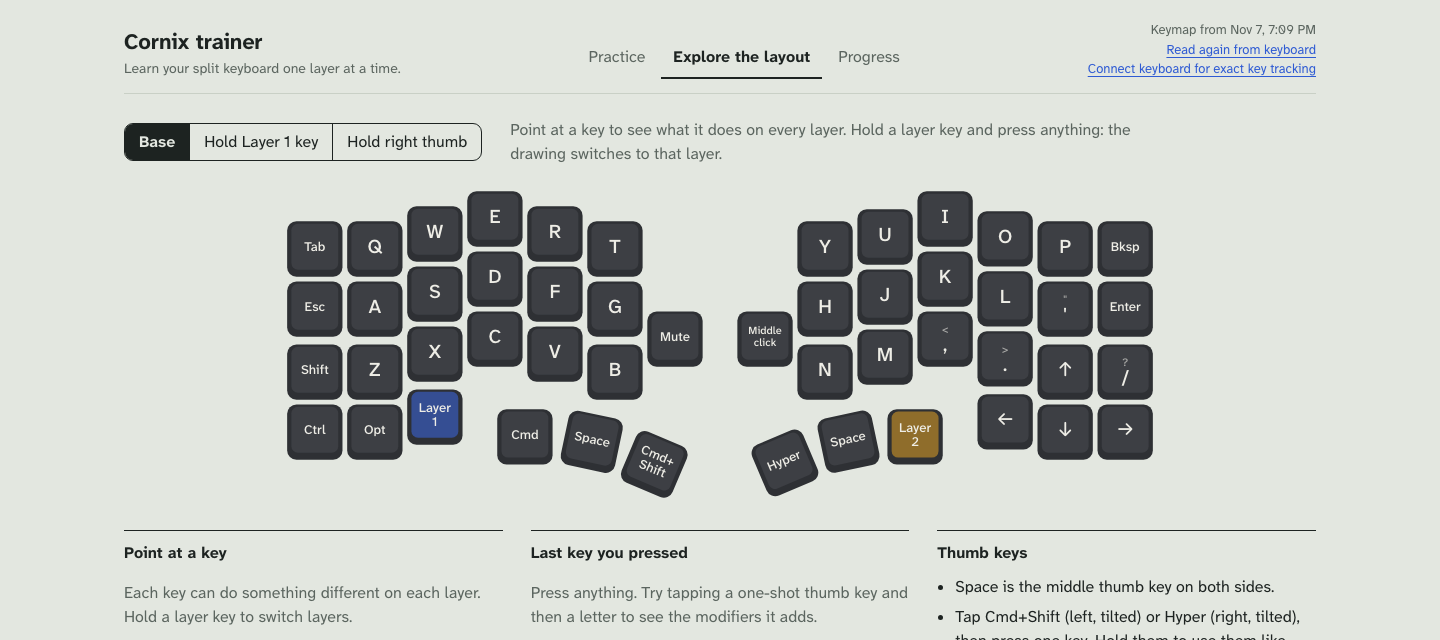
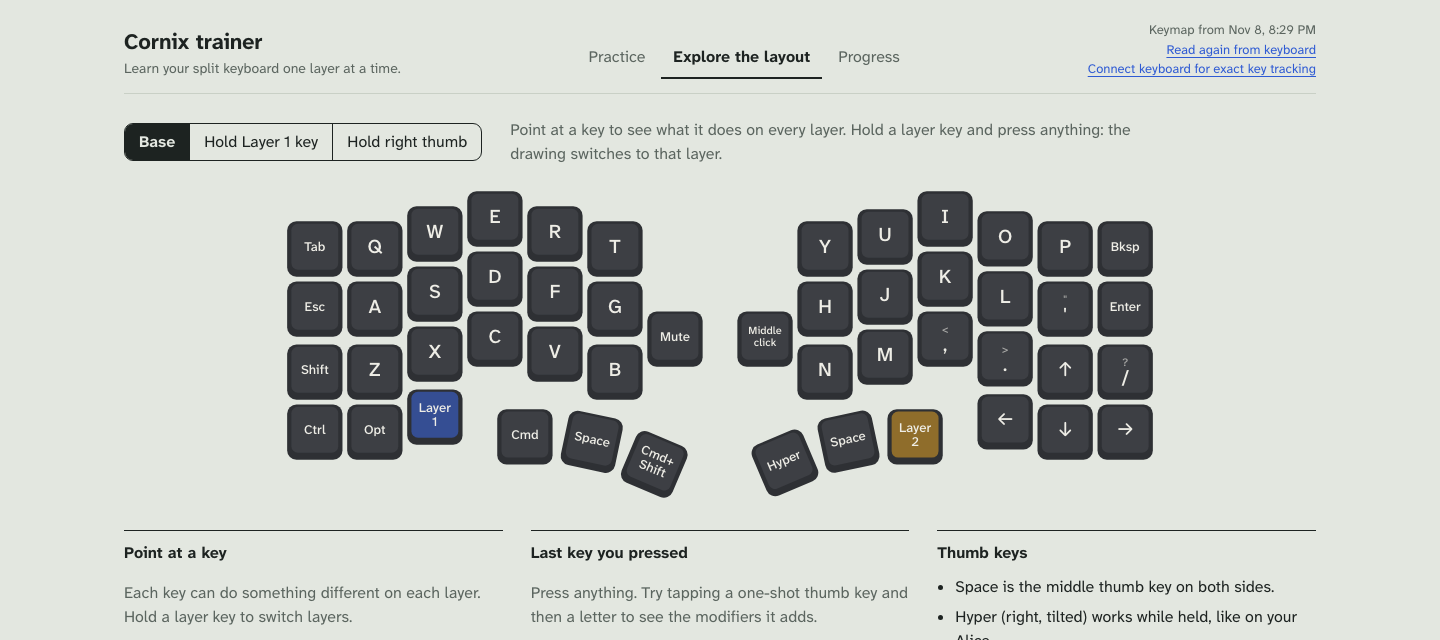
Hold-only Hyper like the Alice; USB/BT output switch on Layer 2
- Hyper (right tilted thumb) is now HYPR(KC_NO): active only while held,
  instead of one-shot.
- Layer 2 Tab spot gets the Cornix output switch, so a cable in the left
  half only charges (Bluetooth priority) and typing keeps working.
- App: describe both keys, treat held Hyper like a modifier group when
  telling which key was pressed; refresh layout screenshots.

Changed region(s): [[0.6562, 0.9375, 0.9062, 1.0], [0.7812, 0.0312, 0.9062, 0.0625]]

diff --git a/app/src/lib/keycodes.ts b/app/src/lib/keycodes.ts
@@ -74,6 +74,8 @@ export type KeyInfo = {
   kind: 'char' | 'mod' | 'layer' | 'oneshot' | 'action' | 'none' | 'trans' | 'media' | 'custom'
   /** layer this key activates while held (MO) */
   layer?: number
+  /** modifier bits (C=1 S=2 A=4 G=8) for keys that send a group of modifiers (Hyper, one-shot keys) */
+  mods?: number
   /** plain-language explanation */
   help: string
 }
@@ -96,8 +98,12 @@ export function describe(kc: number): KeyInfo {
     return { label: l ?? `0x${kc.toString(16)}`, kind: 'action', help: `${l ?? 'Key'}.` }
   }
   if (kc < 0x2000) {
-    const inner = describe(kc & 0xff)
     const m = modsName(kc >> 8)
+    if ((kc & 0xff) === 0) {
+      // modifiers only (e.g. Hyper): works while held, like a normal modifier key
+      return { label: m, kind: 'mod', mods: (kc >> 8) & 0x0f, help: `${m} while held. Let go and it's off.` }
+    }
+    const inner = describe(kc & 0xff)
     return { label: `${m}+${inner.label}`, kind: 'action', help: `Sends ${m}+${inner.label}.` }
   }
   if (kc >= 0x5220 && kc < 0x5240) {
@@ -107,13 +113,18 @@ export function describe(kc: number): KeyInfo {
   if (kc >= 0x52a0 && kc < 0x52c0) {
     const m = modsName(kc - 0x52a0)
     return {
-      label: m, kind: 'oneshot',
+      label: m, kind: 'oneshot', mods: (kc - 0x52a0) & 0x0f,
       help: `One-shot ${m}: tap it, then press one key and it gets ${m}. Hold it to use it like a normal modifier.`,
     }
   }
   if (kc >= 0x7e00 && kc < 0x7e40) {
     const label = CUSTOM[kc - 0x7e00] ?? `KB${kc - 0x7e00}`
-    return { label, kind: 'custom', help: label.startsWith('BT') ? `Switch to Bluetooth device ${label.slice(3)}.` : label }
+    const help = label.startsWith('BT')
+      ? `Switch to Bluetooth device ${label.slice(3)}.`
+      : label === 'USB / BT'
+        ? 'Switch between USB priority and Bluetooth priority. In Bluetooth priority, a cable only charges the keyboard.'
+        : label
+    return { label, kind: 'custom', help }
   }
   return { label: `0x${kc.toString(16)}`, kind: 'action', help: 'Special key.' }
 }

diff --git a/app/src/components/Explore.tsx b/app/src/components/Explore.tsx
@@ -26,8 +26,9 @@ export function Explore({ km }: { km: Keymap }) {
     const oneShotIds: string[] = []
     for (const k of km.keys) {
       const info = describe(km.raw(0, k.row, k.col))
-      if (info.kind === 'mod') modKeyIds.push(k.id)
-      if (info.kind === 'oneshot') oneShotIds.push(k.id)
+      const group = [1, 2, 4, 8].filter((b) => (info.mods ?? 0) & b).length >= 2
+      if (group) oneShotIds.push(k.id)
+      else if (info.kind === 'mod') modKeyIds.push(k.id)
     }
     return { modKeyIds, oneShotIds }
   }, [km])
@@ -152,7 +153,8 @@ export function Explore({ km }: { km: Keymap }) {
           <h3>Thumb keys</h3>
           <ul className="facts">
             <li>Space is the middle thumb key on both sides.</li>
-            <li>Tap Cmd+Shift (left, tilted) or Hyper (right, tilted), then press one key. Hold them to use them like normal modifiers.</li>
+            <li>Hyper (right, tilted) works while held, like on your Alice.</li>
+            <li>Cmd+Shift (left, tilted) is one-shot: tap it, then press one key. You can also hold it.</li>
             <li>Cmd is the outer left thumb key.</li>
             <li>Hold the {thumbOf(km, 1)} for numbers and symbols. Hold the {thumbOf(km, 2)} for F-keys, media and Bluetooth.</li>
             <li>One knob turns the volume, the other scrolls.</li>

diff --git a/app/src/lib/pressed.ts b/app/src/lib/pressed.ts
@@ -17,10 +17,10 @@ const osmCache = new WeakMap<Keymap, Osm[]>()
 function oneShots(km: Keymap): Osm[] {
   let list = osmCache.get(km)
   if (!list) {
+    // keys that send a group of modifiers at once: one-shot keys and held combos like Hyper
     list = km.keys
-      .map((k) => ({ id: k.id, kc: km.raw(0, k.row, k.col) }))
-      .filter((x) => describe(x.kc).kind === 'oneshot')
-      .map((x) => ({ id: x.id, mods: (x.kc - 0x52a0) & 0x0f }))
+      .map((k) => ({ id: k.id, mods: describe(km.raw(0, k.row, k.col)).mods ?? 0 }))
+      .filter((x) => [1, 2, 4, 8].filter((b) => x.mods & b).length >= 2)
     osmCache.set(km, list)
   }
   return list

diff --git a/tools/apply.py b/tools/apply.py
@@ -29,6 +29,7 @@ else:
     # Thumbs: Space on the resting (middle) keys, one-shot mods on the inner tilted keys
     L0[3][4], L0[3][5] = L0[3][5], L0[3][4]   # left:  Space <-> OSM(Cmd+Shift)
     L0[7][4], L0[7][5] = L0[7][5], L0[7][4]   # right: Space <-> OSM(Hyper)
+    L0[7][5] = 0x0F00  # Hyper only while held (like the Alice), not one-shot
     # Cmd on the outer left thumb (Mac muscle memory); Layer 1 moves to Cmd's old bottom-row spot
     L0[3][2], L0[3][3] = L0[3][3], L0[3][2]
     # Layer 1: no Caps Lock anywhere (too easy to hit by accident); brackets on K / L
@@ -46,6 +47,9 @@ else:
     L2[5][2] = NEXT    # L
     L2[6][4] = BRID    # M
     L2[6][3] = BRIU    # ,
+    # Output mode switch (USB priority <-> Bluetooth priority), above BT1-BT3 on the left edge.
+    # In USB priority (the default) a cable in the left half sends keys to USB, even from a wall charger.
+    L2[0][0] = 0x7E06  # SWITCH
     # Unused keys on layers 1-2 -> transparent so mods/thumbs keep working
     for L in (L1, L2):
         for r in range(R):

diff --git a/README.md b/README.md
@@ -8,7 +8,7 @@ The repo also keeps the scripts and backups I used to set up the keymap.
 
 ## My layout
 
-**Base layer.** Esc is where Caps Lock was. Cmd and Space are under the left thumb. Space and one-shot Hyper are under the right thumb. The arrow corner matches my QK Alice.
+**Base layer.** Esc is where Caps Lock was. Cmd and Space are under the left thumb. Space and Hyper are under the right thumb. Hyper works only while held, like on the Alice. The arrow corner matches my QK Alice.
 
 ![Base layer](docs/layout-base.png)
 
@@ -16,7 +16,7 @@ The repo also keeps the scripts and backups I used to set up the keymap.
 
 ![Layer 1](docs/layout-layer1.png)
 
-**Layer 2 (hold the right thumb).** F1–F12, media keys and Bluetooth channels.
+**Layer 2 (hold the right thumb).** F1–F12, media keys, Bluetooth channels, and the USB / BT output switch (top-left), which keeps typing over Bluetooth while the left half charges.
 
 ![Layer 2](docs/layout-layer2.png)
 
@@ -70,7 +70,9 @@ python3 -m venv .venv && .venv/bin/pip install -r requirements.txt   # first tim
 - Caps Lock → Esc. Caps Lock is no longer on the Cornix at all; use the laptop's key if you ever need it.
 - `'` went on the base layer, right of L. It's a dead key for accents with U.S. International – PC. `\|` moved to layer 1, on the same key.
 - Space moved to the middle thumb keys. The one-shot Cmd+Shift (left) and Hyper (right) keys moved to the tilted inner keys.
+- Hyper changed from one-shot to hold-only, like on the Alice. One-shot meant a tap stayed active until the next key.
 - Cmd and Layer 1 swapped places. Cmd is on the outer left thumb key, where a Mac's Cmd sits next to the space bar. Layer 1 is the third key on the bottom-left row.
 - Layer 1: `[` on K and `]` on L.
 - Layer 2: F1–F12, Previous/Play/Next on J/K/L, and brightness on M and `,`.
+- Layer 2: **USB / BT** output switch on the Tab key, above the Bluetooth channel keys. The Cornix starts in USB priority, so a cable in the left half sends keys over USB, even from a wall charger. Press the switch once to put it in Bluetooth priority. Then the cable only charges, and you can type while it charges.
 - Unused keys on layers 1–2 are transparent, so Shift, Cmd and the thumb keys keep working while you hold a layer.
